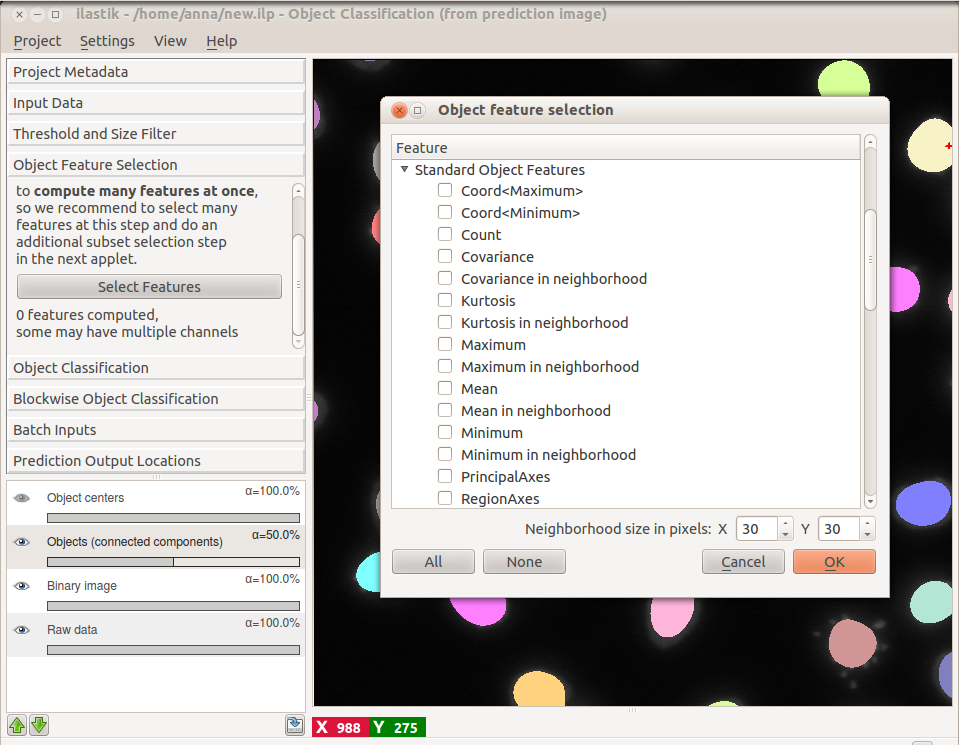
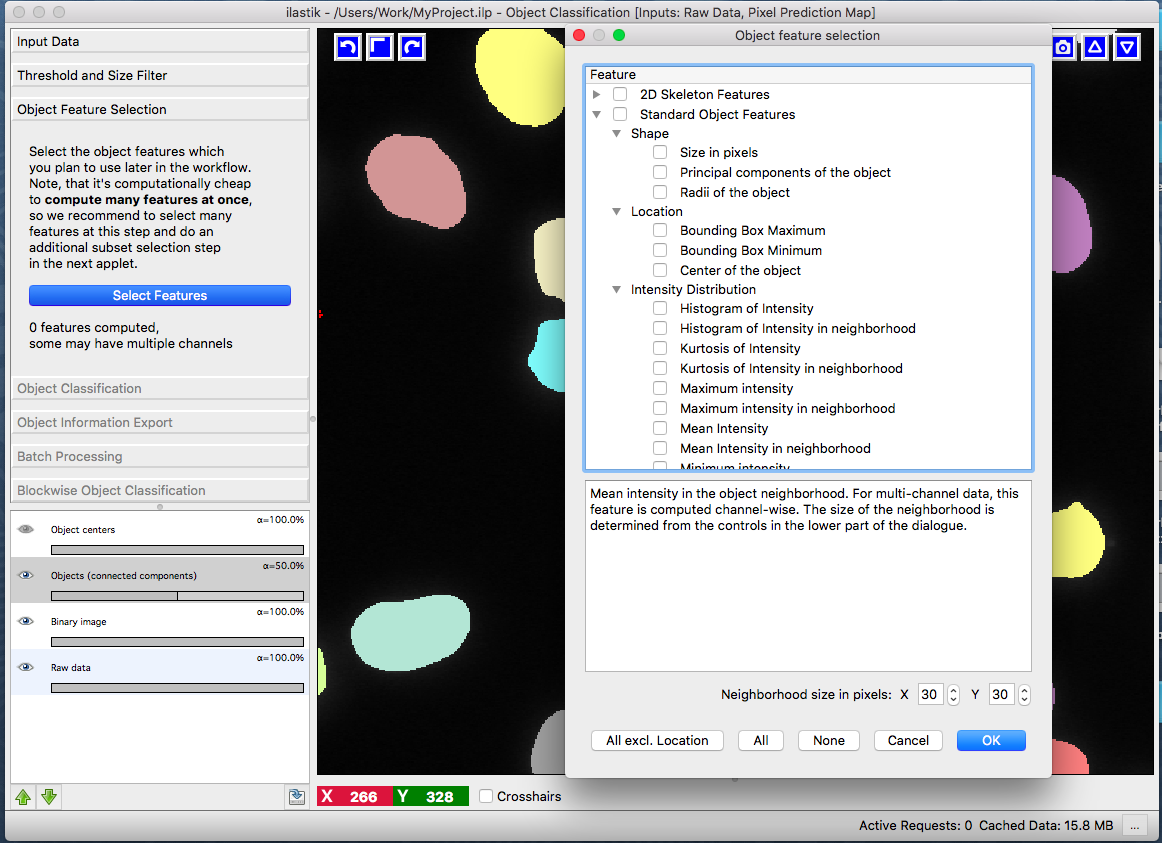
wip: features stuff

diff --git a/documentation/objects/objects.md b/documentation/objects/objects.md
@@ -95,6 +95,7 @@ For both thresholding methods the end result is shown in the "Final output" laye
 Now that we have obtained a segmentation, we are ready to proceed to the "Object Feature Selection" applet.
 
 ## From segmentation to objects - "Object Feature Selection" applet
+
 This applet finds the connected components (objects) in the provided binary segmentation image and computes user-defined features for each object. If you want to inspect the connected components, activate the "Objects (connected components) layer. If you select any object features, connected component analysis will be performed automatically.
 
 <a href="figs/object_extraction_cc.png" data-toggle="lightbox"><img src="figs/object_extraction_cc.png" class="img-responsive" /></a>
@@ -103,19 +104,27 @@ The following dialog will appear if you press the "Select features" button:
 
 <a href="figs/object_extraction_selection_dialog.png" data-toggle="lightbox"><img src="figs/object_extraction_selection_dialog.png" class="img-responsive" /></a>
 
-The "Standard Object Features" refer to the built-in ilastik features, computed by the [vigra library](https://ukoethe.github.io/vigra/doc-release/vigra/group__FeatureAccumulators.html).
-Unless otherwise specified by the "Coord" prefix, the features are computed on the grayscale values of the pixels that belong to the object.
+Per default ilastik comes with 3 feature plugins: "Standard Object Features", "Skeleton Feautures" (2D only), and "Convex Hull Features".
+Those features are computed by the [vigra library](https://ukoethe.github.io/vigra/doc-release/vigra/group__FeatureAccumulators.html).
+The features are subdivided into three groups: "Location", "Shape", and "Intensity Distribution".
+Location-based features take into account _absolute coordinate positions_ in the image.
+These are only useful in special cases when the position of the object in the image can be used to infer the object type. 
+Shape-based features extract shape descriptors from the object masks.
+Lastly, "Intensity Distribution" features operate on image value statistics.
 You will also notice features, which can be computed "in the neighborhood".
 In that case, the neighborhood of the object (specified by the user at the bottom of the dialog) is found by distance transform and the feature is computed for the object itself and for the neighborhood including and excluding the object.
 Need more features?
 Object features are plugin-based and very easy to extend if you know a little Python.
-A detailed example of a user-defined plugin can be found in the $ILASTIK/examples directory, while [this page](https://ilastik.org/ilastik/applet_library.html#object-extraction) contains a higher-level description of the few functions you'd have to implement.
+A detailed example of a user-defined plugin can be found in the $ILASTIK/examples directory, while [this page](https://ilastik.github.io/ilastik/applet_library.html#object-extraction) contains a higher-level description of the few functions you'd have to implement.
 
+<!-- TODO: redo screenshot -->
 <a href="figs/object_extraction_selection_dialog_neigh.png" data-toggle="lightbox"><img src="figs/object_extraction_selection_dialog_neigh.png" class="img-responsive" /></a>
 
 Once you have selected the features you like, the applet will proceed to compute them. For large 3D datasets this step can take quite a while. However, keep in mind that most of the time selecting more features at this step is not more expensive computationally. We therefore recommend that you select all features you think you might try for classification and then choose a subset of these features in the next applet.
 
-Note on spacial features: Features that are preceded with the "Coord" prefix produce features with absolute coordinate positions in the image. These are only useful in special cases when the position of the object in the image can be used to infer the object type. 
+<!-- TODO: extract table, embed somehow -->
+
+
 
 ## Prediction for objects - "Object Classification" applet
 This applet allows you to label the objects and classify them based on the features, computed in the previous applet. If you want to choose a subset of features, press the "Subset features" button. Adding labels and changing their color is done the same way as in the
@@ -140,14 +149,17 @@ In the low right corner we see a cell (shown by the red ellipse), which was clas
 
 <a href="figs/oc_prediction2.png" data-toggle="lightbox"><img src="figs/oc_prediction2.png" class="img-responsive" /></a>
 
-All cells seem to be classified correctly, except one segmentation error, where two cells were erroneously merged (shown by the red ellipse). How could we correct that? We'd have to go back to the thresholding applet, where we performed the segmentation. In the best case, you would have caught this error by examining the thresholding output at the first step. The problem with correcting the segmentation now is that with different thresholds the objects will most probably change shape and thus their features. Besides, some objects might disappear completely, while others appear from the background. ilastik will try to transfer your object labels from the old to the new segmentation, but it will fail in case of disappearance or object division, which is why it's recommended to not change the segmentation after labels are added. Nevertheless, let us try it for demonstration purposes:
+All cells seem to be classified correctly, except one segmentation error, where two cells were erroneously merged (shown by the red ellipse). How could we correct that? We'd have to go back to the thresholding applet, where we performed the segmentation. In the best case, you would have caught this error by examining the thresholding output at the first step. The problem with correcting the segmentation now is that with different thresholds the objects will most probably change shape and thus their features. Besides, some objects might disappear completely, while others appear from the background.
+Currently, all labels are lost when the threshold is changed!
+<!-- This has been deactivated for quite a while (at 1.3.3b1 now). Uncomment the following paragraph, once transfer-labels is back!-->
+<!-- ilastik will try to transfer your object labels from the old to the new segmentation, but it will fail in case of disappearance or object division, which is why it's recommended to not change the segmentation after labels are added. Nevertheless, let us try it for demonstration purposes:
 
 <a href="figs/thresholding_final2.png" data-toggle="lightbox"><img src="figs/thresholding_final2.png" class="img-responsive" /></a>
 
 After a slight change in the segmentation (lower) threshold the objects indeed become separated. And the two independent objects are predicted correctly:
 
 <a href="figs/oc_prediction3.png" data-toggle="lightbox"><img src="figs/oc_prediction3.png" class="img-responsive" /></a>
-
+-->
 ## Uncertainty Layer
 Uncertainty Layer displays how uncertain prediction for an object is. Applying the minimum number of labels for classifying objects containing up to three cells we have a very uncertain classification:
 
